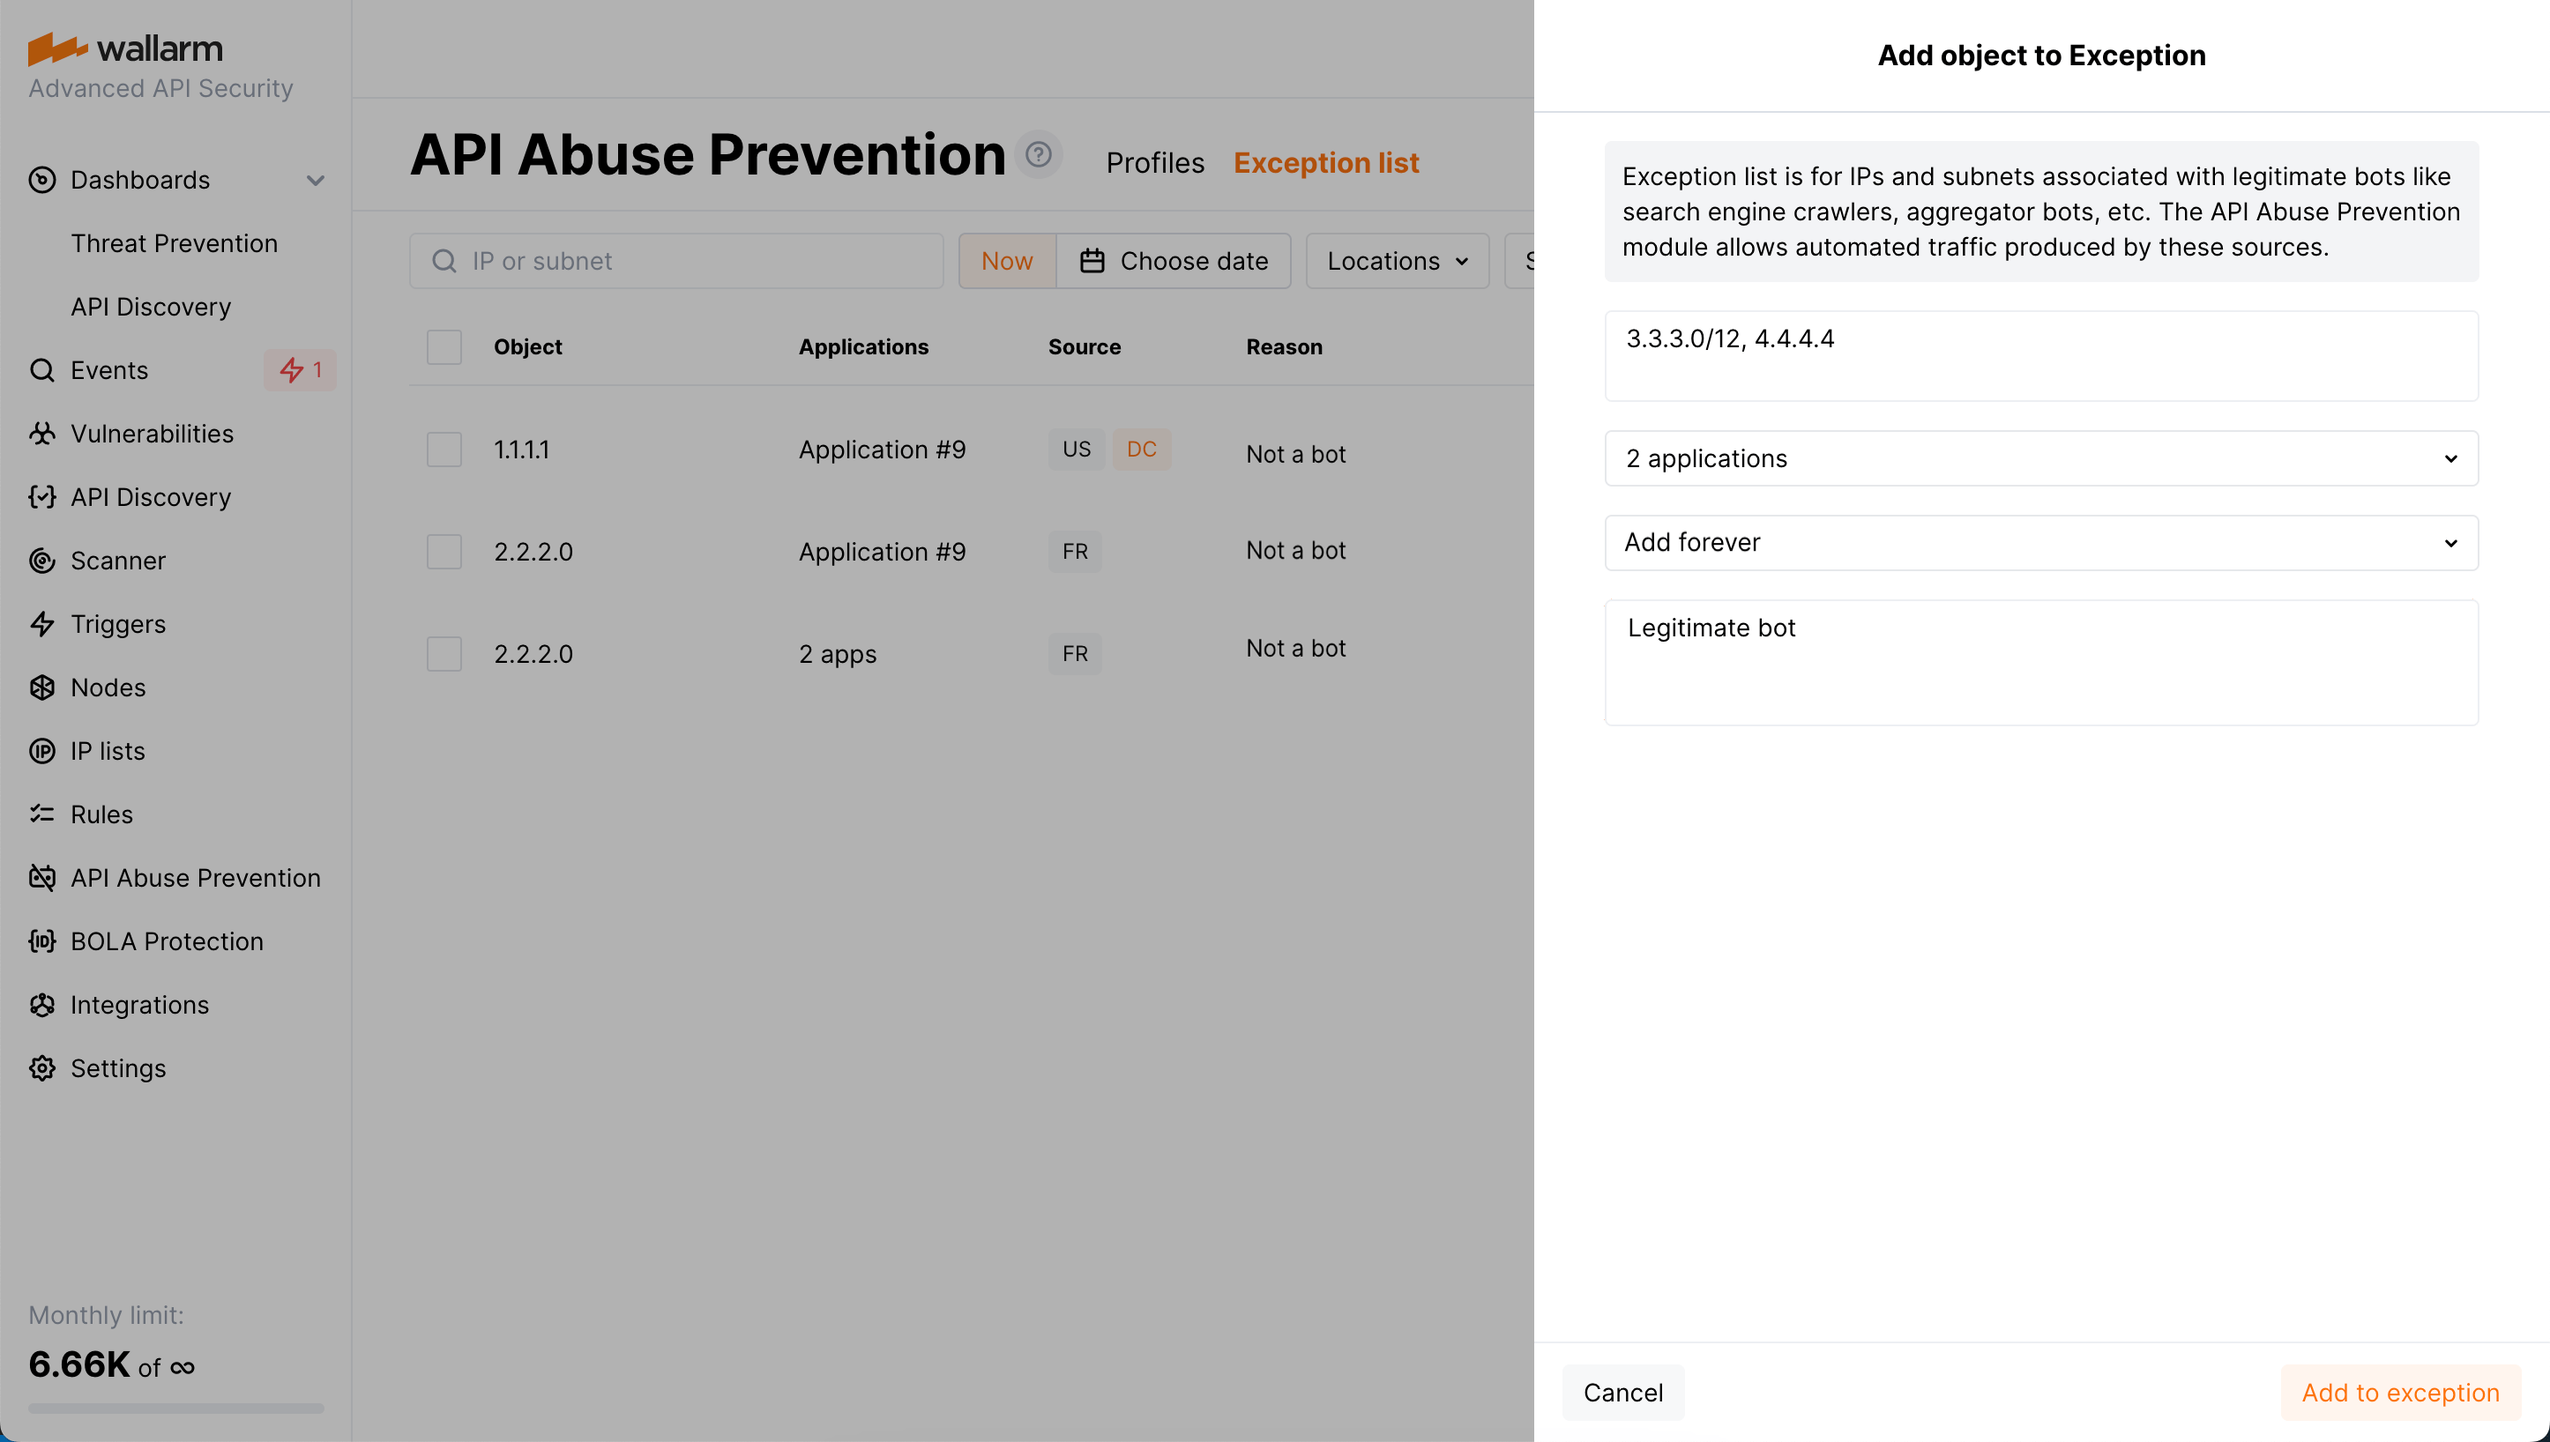
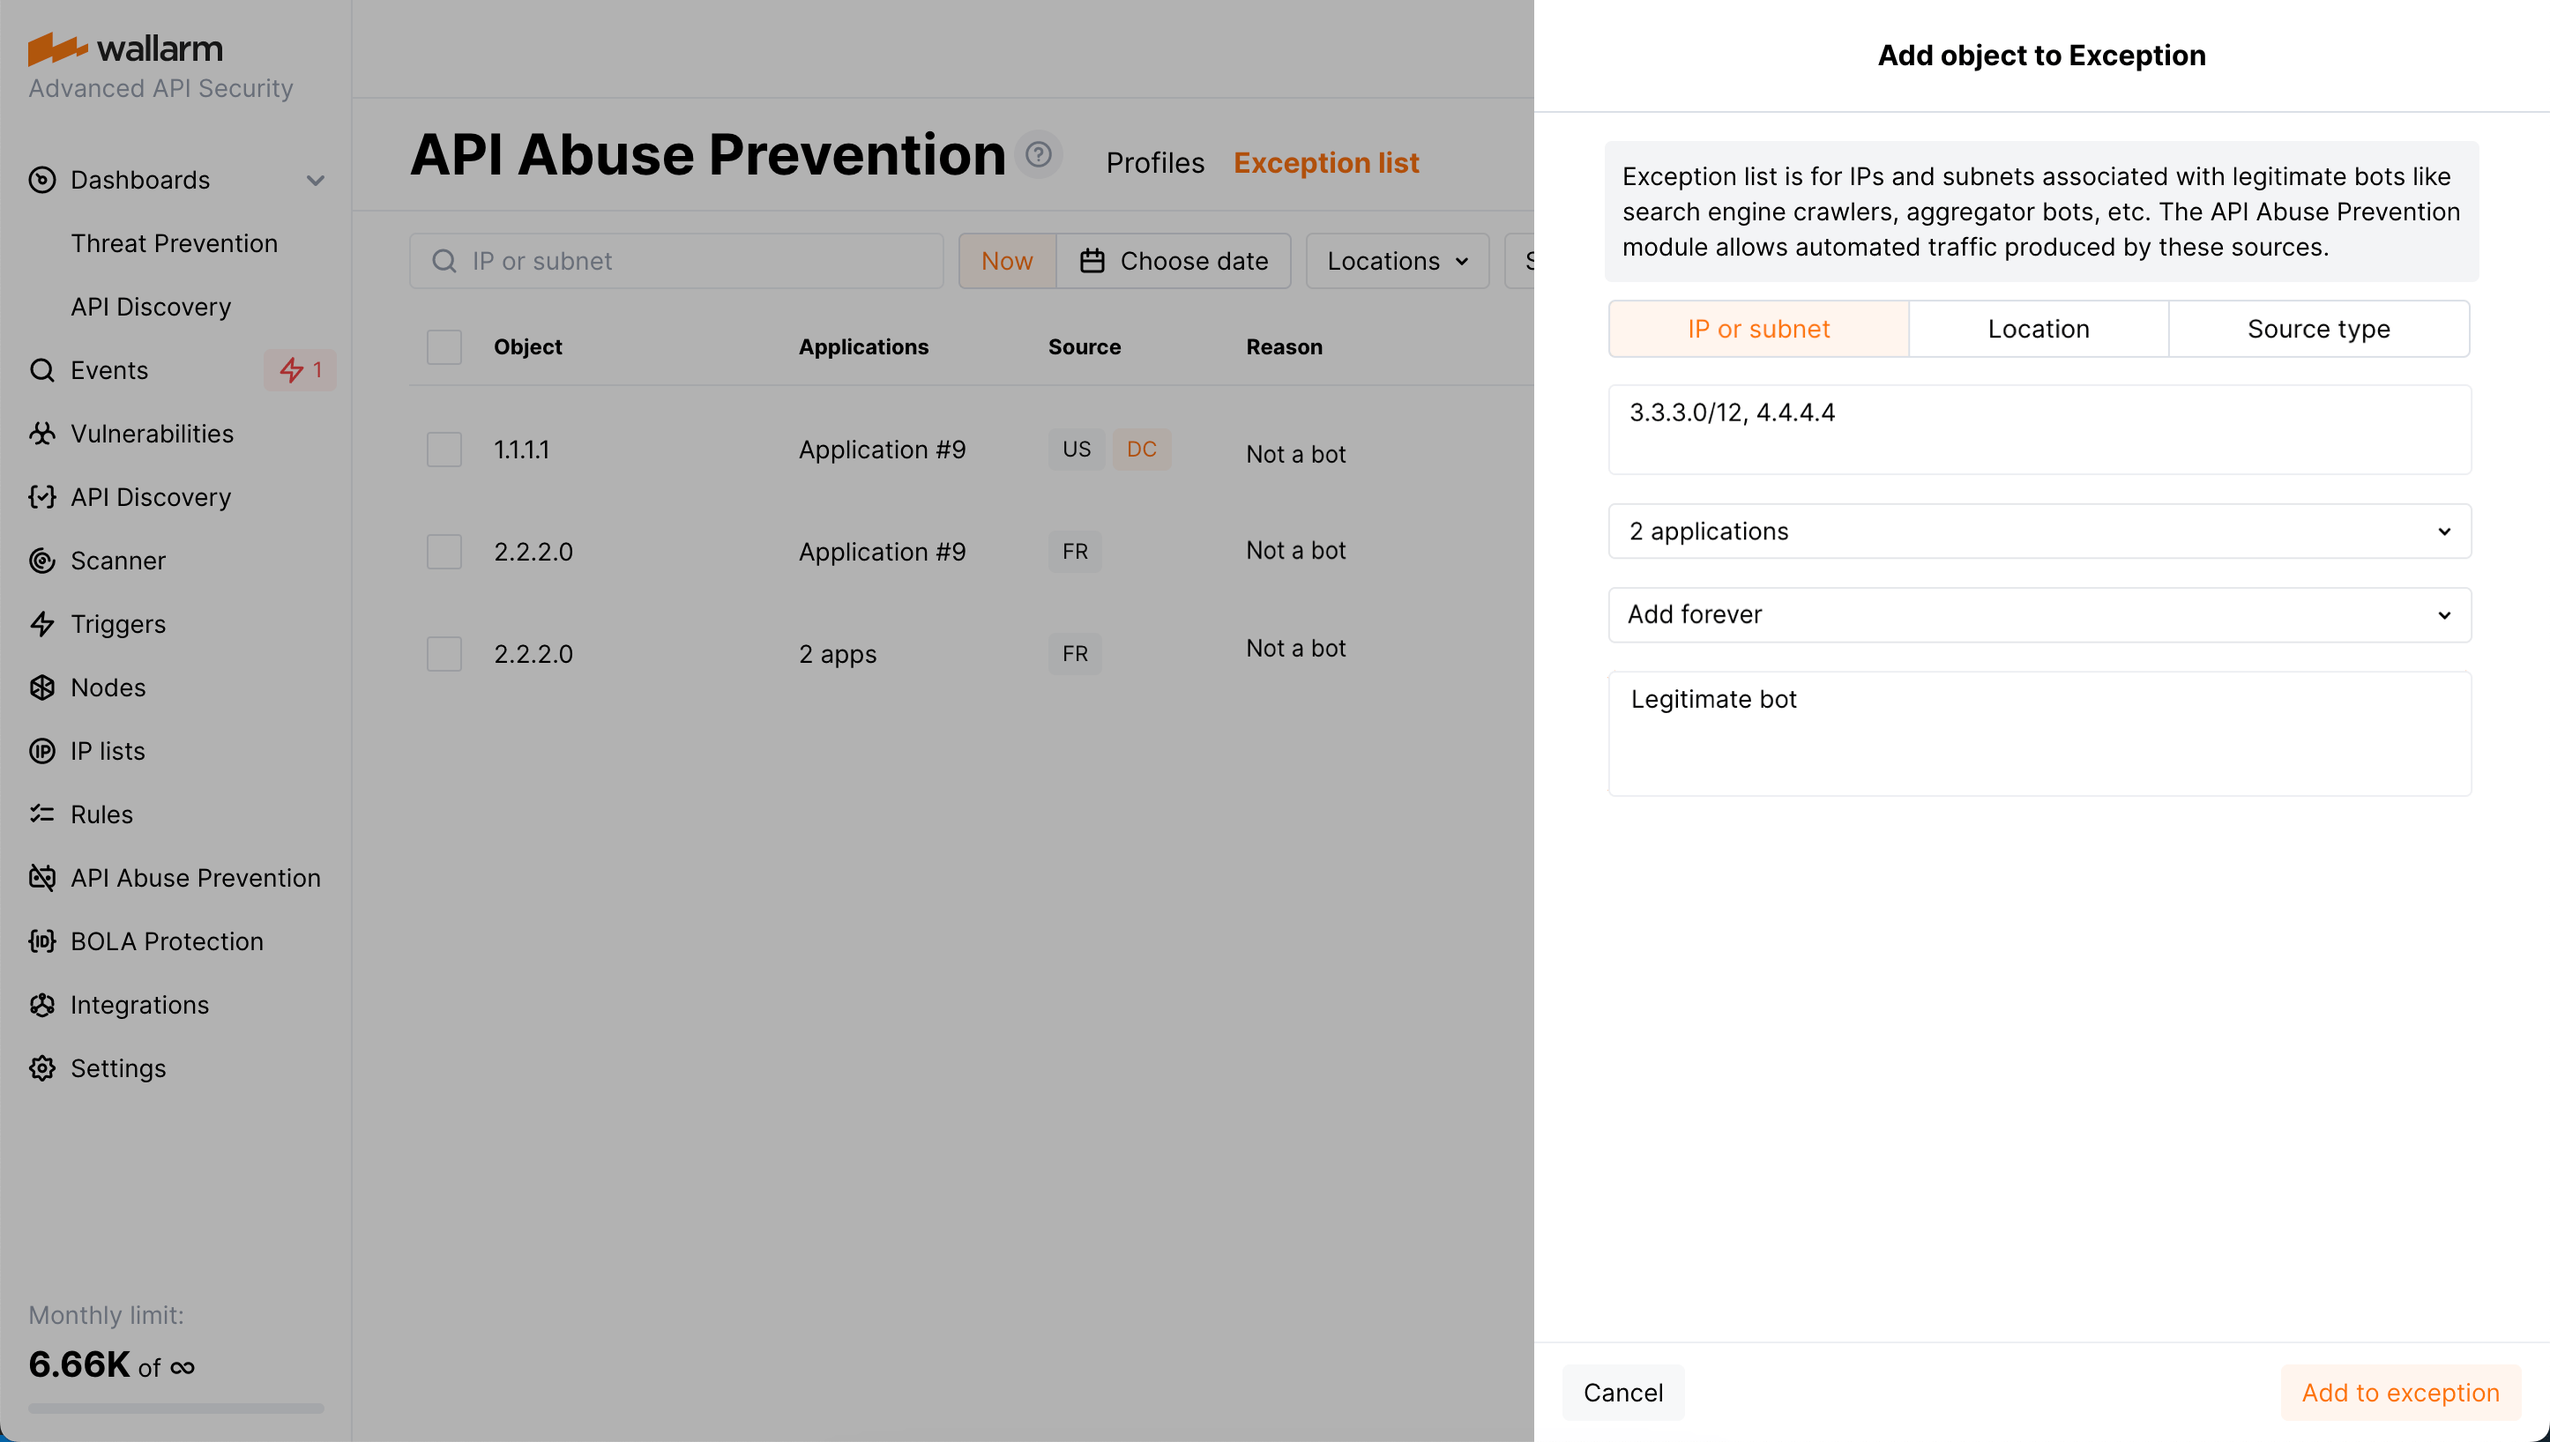
DOCS-2119 API AP exception list - locations and source types

diff --git a/docs/latest/about-wallarm/api-abuse-prevention.md b/docs/latest/about-wallarm/api-abuse-prevention.md
@@ -82,7 +82,7 @@ You can explore the bots' activity in the Wallarm Console UI as follows:
 
 ## Exception list
 
-An exception list is a list of IP addresses that are known to be associated with legitimate bots or crawlers, and are therefore exempt from being blocked or restricted by the API Abuse Prevention module.
+An exception list is a list of IP addresses, subnets, locations and source types that are known to be associated with legitimate bots or crawlers, and are therefore exempt from being blocked or restricted by the API Abuse Prevention module.
 
 You can add IP addresses to the exception list in advance or if they have already been mistakenly flagged as being associated with malicious bot activity. [Learn how to work with exception list →](../user-guides/api-abuse-prevention.md#working-with-exception-list)
 

diff --git a/docs/latest/user-guides/api-abuse-prevention.md b/docs/latest/user-guides/api-abuse-prevention.md
@@ -82,7 +82,7 @@ You add IP address or range to the exception list and specify target application
 
 There are two ways of adding IP addresses to the exception list:
 
-* From the **API Abuse Prevention** section → **Exception list** tab via **Add exception**.
+* From the **API Abuse Prevention** section → **Exception list** tab via **Add exception**. Here, besides IPs and subnets, you can add locations and source types that should be ignored by API Abuse Prevention.
 
     ![!API Abuse prevention - adding items from inside exception list](../images/about-wallarm-waf/abi-abuse-prevention/exception-list-add-from-inside.png)
 
